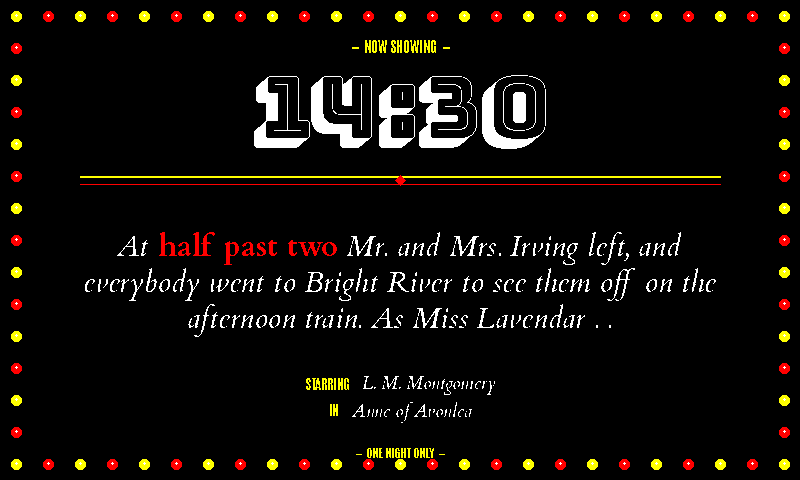
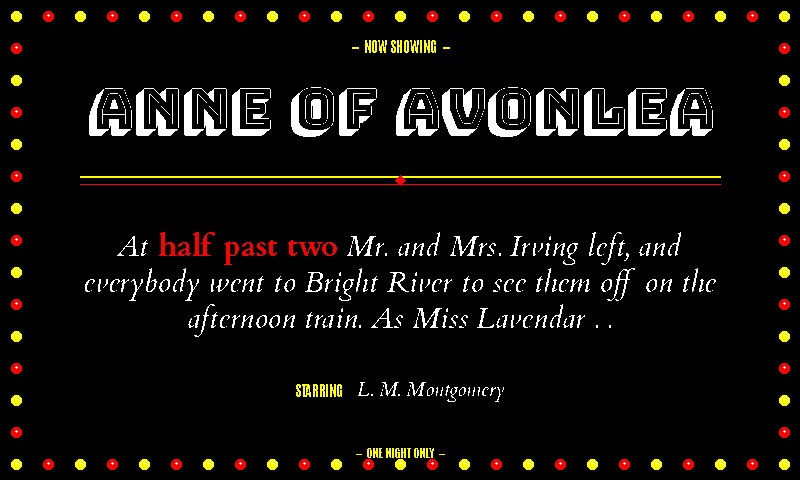
Marquee: book title takes the big chrome; purge digital time
Two related design fixes:

1. Book title as the feature title. The big chunky Bungee Shade
   slot used to render the digital HH:MM; that's not what a real
   movie palace marquee says — the BIG letters are always the
   feature title. New ``_marquee_paint_feature_title`` takes the
   row's ``title``, uppercases it (the canonical marquee
   convention), and shrinks through 72→32pt to fit single-line.
   Titles too long for 32pt single-line wrap onto two lines at
   the space nearest the midpoint, then re-fit through 54→24pt
   so both lines fit. Empties fall back to the author name, then
   to the literal "IDLE HOURS" brand string.

2. Purge digital time. The marquee deliberately never surfaces
   the wall-clock HH:MM as digital chrome — the quote's matched
   phrase ("half past two", "nine o'clock", "11:15") carries the
   time signal, and surfacing a parallel digital clock would
   defeat the whole point of a quote-based fuzzy clock. The top
   tagline reverts to "— NOW SHOWING —" (no time); the bottom
   tagline stays "— ONE NIGHT ONLY —"; the fallback chain on
   ``_marquee_paint_feature_title`` deliberately stops at
   "IDLE HOURS" rather than the time. ``time_str`` is retained
   in ``render_marquee_frame`` for dispatch-signature uniformity
   with astrarium / tarot / vinyl / diags but is now
   ``del``-asserted at function entry and unused thereafter.

Credits chrome simplifies in lockstep: the second "IN [TITLE]"
[…]

Changed region(s): [[0.0938, 0.1562, 0.9062, 0.3125], [0.375, 0.7812, 0.625, 0.875]]

diff --git a/idle_hours/render_quote.py b/idle_hours/render_quote.py
@@ -9971,25 +9971,97 @@ def _marquee_paint_label_band(
     draw.text((cx - tw // 2 - bbox[0], y_top - bbox[1]), text, font=font, fill=colour)
 
 
-def _marquee_paint_time(
+def _marquee_paint_feature_title(
     image: Image.Image,
     draw: ImageDraw.ImageDraw,
     width: int,
-    time_str: str,
+    quote_row: dict,
     cy: int,
 ) -> None:
-    """Big white Bungee Shade ``HH:MM`` — the marquee "feature title".
+    """Big chunky white Bungee Shade book-title chrome — the marquee
+    "feature title".
 
-    Centred horizontally and vertically on ``cy``. Bungee Shade's 3D-
-    blocked silhouette reads as physical relief letters mounted on the
-    marquee canopy.
+    Centred horizontally on ``width`` and vertically on ``cy``. Bungee
+    Shade's 3D-blocked silhouette reads as physical relief letters
+    mounted on the marquee canopy. Title is uppercased (the canonical
+    marquee convention) and shrunk to fit width — starts at 72pt and
+    steps down in 4pt increments through 32pt. If it still overflows
+    the available width at 32pt, the title is wrapped onto two lines
+    at the nearest space-character to the midpoint, and a fresh
+    size-fit sweep finds a size where both lines fit.
+
+    Fallback chain when ``quote_row['title']`` is missing: author
+    (uppercased) → the literal brand string ``"IDLE HOURS"``. The
+    fallback deliberately never surfaces the wall-clock HH:MM —
+    showing the digital time would defeat the whole point of a
+    quote-based fuzzy clock (the matched-phrase IS the time signal).
     """
     WHITE = SPECTRA6["white"]
-    font = load_font(theme_font_candidates("marquee", "ornament"), size=84)
-    bbox = draw.textbbox((0, 0), time_str, font=font)
-    tw = bbox[2] - bbox[0]
-    th = bbox[3] - bbox[1]
-    draw.text((width // 2 - tw // 2 - bbox[0], cy - th // 2 - bbox[1]), time_str, font=font, fill=WHITE)
+    title = (quote_row.get("title") or fallback_title(quote_row) or "").strip()
+    author = (quote_row.get("author") or "").strip()
+    text = title.upper() or author.upper() or "IDLE HOURS"
+    if not text:
+        return
+    max_text_width = width - 100  # 50 px inset each side
+
+    # Try single-line fit first, biggest size down.
+    chain = theme_font_candidates("marquee", "ornament")
+    for size in (72, 64, 56, 50, 44, 38, 32):
+        font = load_font(chain, size=size)
+        bbox = draw.textbbox((0, 0), text, font=font)
+        tw = bbox[2] - bbox[0]
+        if tw <= max_text_width:
+            th = bbox[3] - bbox[1]
+            draw.text(
+                (width // 2 - tw // 2 - bbox[0], cy - th // 2 - bbox[1]),
+                text, font=font, fill=WHITE,
+            )
+            return
+
+    # Wrap to two lines at the space nearest the midpoint.
+    mid = len(text) // 2
+    left_break = text.rfind(" ", 0, mid + 4)
+    right_break = text.find(" ", mid)
+    candidates = [b for b in (left_break, right_break) if b > 0]
+    if not candidates:
+        # No space at all — render at smallest size, will overflow but
+        # nothing better to do.
+        font = load_font(chain, size=28)
+        bbox = draw.textbbox((0, 0), text, font=font)
+        tw = bbox[2] - bbox[0]
+        th = bbox[3] - bbox[1]
+        draw.text(
+            (width // 2 - tw // 2 - bbox[0], cy - th // 2 - bbox[1]),
+            text, font=font, fill=WHITE,
+        )
+        return
+    split_at = min(candidates, key=lambda b: abs(b - mid))
+    line1, line2 = text[:split_at].strip(), text[split_at + 1:].strip()
+
+    for size in (54, 48, 42, 36, 32, 28, 24):
+        font = load_font(chain, size=size)
+        bbox1 = draw.textbbox((0, 0), line1, font=font)
+        bbox2 = draw.textbbox((0, 0), line2, font=font)
+        tw1 = bbox1[2] - bbox1[0]
+        tw2 = bbox2[2] - bbox2[0]
+        if tw1 <= max_text_width and tw2 <= max_text_width:
+            break
+
+    th = bbox1[3] - bbox1[1]
+    line_gap = 10
+    block_h = th * 2 + line_gap
+    top_y = cy - block_h // 2
+    # Line 1.
+    draw.text(
+        (width // 2 - (bbox1[2] - bbox1[0]) // 2 - bbox1[0], top_y - bbox1[1]),
+        line1, font=font, fill=WHITE,
+    )
+    # Line 2.
+    draw.text(
+        (width // 2 - (bbox2[2] - bbox2[0]) // 2 - bbox2[0],
+         top_y + th + line_gap - bbox2[1]),
+        line2, font=font, fill=WHITE,
+    )
 
 
 def _marquee_paint_divider(image: Image.Image, draw: ImageDraw.ImageDraw, width: int, cy: int) -> None:
@@ -10076,58 +10148,36 @@ def _marquee_paint_credits(
     width: int,
     y_top: int,
 ) -> None:
-    """STARRING [AUTHOR] / IN [TITLE] credit chrome.
+    """STARRING [AUTHOR] credit chrome.
 
-    Yellow chrome labels (STARRING, IN) in small Bungee Shade; white
-    name + title in Cardo Italic. Centred on the canvas. The credit
-    chrome convention is the canonical "above-the-title" marquee
-    layout from real movie posters.
+    Yellow Antonio Bold "STARRING" label + white Cardo Italic author
+    name. Centred on the canvas. The book title used to appear on a
+    second "IN [TITLE]" credit line here, but the title is now the
+    big Bungee Shade feature-title chrome at the top of the marquee,
+    so the credits simplify to the author alone — the canonical
+    "above-the-title star credit" convention from real movie posters.
     """
     YELLOW = SPECTRA6["yellow"]
     WHITE = SPECTRA6["white"]
     author = (quote_row.get("author") or "").strip()
-    title = (quote_row.get("title") or fallback_title(quote_row) or "").strip()
-    if not author and not title:
+    if not author:
         return
     cx = width // 2
-    # STARRING / IN labels use Antonio Bold (same legibility argument as
-    # _marquee_paint_label_band) so the chrome reads cleanly at 13pt.
-    label_font = load_font([(ANTONIO_VARIABLE, "Bold"), *META_FONT_BOLD_CANDIDATES], size=13)
-    name_font = load_font(theme_font_candidates("marquee", "quote_regular"), size=18)
-    y = y_top
-    # STARRING [AUTHOR] line.
-    if author:
-        label = "STARRING"
-        label_bbox = draw.textbbox((0, 0), label, font=label_font)
-        label_w = label_bbox[2] - label_bbox[0]
-        name_bbox = draw.textbbox((0, 0), author, font=name_font)
-        name_w = name_bbox[2] - name_bbox[0]
-        gap = 12
-        total_w = label_w + gap + name_w
-        line_x = cx - total_w // 2
-        draw.text((line_x - label_bbox[0], y - label_bbox[1]), label, font=label_font, fill=YELLOW)
-        draw.text((line_x + label_w + gap - name_bbox[0], y - name_bbox[1] - 2), author, font=name_font, fill=WHITE)
-        y += 26
-    # IN [TITLE] line.
-    if title:
-        label = "IN"
-        label_bbox = draw.textbbox((0, 0), label, font=label_font)
-        label_w = label_bbox[2] - label_bbox[0]
-        name_bbox = draw.textbbox((0, 0), title, font=name_font)
-        name_w = name_bbox[2] - name_bbox[0]
-        gap = 12
-        total_w = label_w + gap + name_w
-        # Truncate title if too wide for the inner content area.
-        max_total_w = width - 80
-        truncated = title
-        while total_w > max_total_w and len(truncated) > 8:
-            truncated = truncated[:-2] + "…"
-            name_bbox = draw.textbbox((0, 0), truncated, font=name_font)
-            name_w = name_bbox[2] - name_bbox[0]
-            total_w = label_w + gap + name_w
-        line_x = cx - total_w // 2
-        draw.text((line_x - label_bbox[0], y - label_bbox[1]), label, font=label_font, fill=YELLOW)
-        draw.text((line_x + label_w + gap - name_bbox[0], y - name_bbox[1] - 2), truncated, font=name_font, fill=WHITE)
+    label_font = load_font([(ANTONIO_VARIABLE, "Bold"), *META_FONT_BOLD_CANDIDATES], size=14)
+    name_font = load_font(theme_font_candidates("marquee", "quote_regular"), size=20)
+    label = "STARRING"
+    label_bbox = draw.textbbox((0, 0), label, font=label_font)
+    label_w = label_bbox[2] - label_bbox[0]
+    name_bbox = draw.textbbox((0, 0), author, font=name_font)
+    name_w = name_bbox[2] - name_bbox[0]
+    gap = 14
+    total_w = label_w + gap + name_w
+    line_x = cx - total_w // 2
+    draw.text((line_x - label_bbox[0], y_top - label_bbox[1]), label, font=label_font, fill=YELLOW)
+    draw.text(
+        (line_x + label_w + gap - name_bbox[0], y_top - name_bbox[1] - 2),
+        author, font=name_font, fill=WHITE,
+    )
 
 
 def render_marquee_frame(time_str: str, quote_row: dict, width: int, height: int) -> Image.Image:
@@ -10135,32 +10185,44 @@ def render_marquee_frame(time_str: str, quote_row: dict, width: int, height: int
 
     Black ground; alternating yellow/red bulb-light border around the
     perimeter (with small white highlight pixels on each bulb so they
-    read as lit glass); big chunky Bungee Shade ``HH:MM`` as the
-    "feature title" at the top; literary quote below in white Cardo
-    Italic with a red matched-phrase accent; STARRING / IN credit
-    chrome at the bottom in yellow + white; "ONE NIGHT ONLY" tagline
-    above the bottom bulbs.
+    read as lit glass); a small "NOW SHOWING" chrome tagline at the
+    top; the book title as the big chunky Bungee Shade feature-title
+    chrome below (uppercased, auto-sized and wrapped to 2 lines for
+    long titles); literary quote below in white Cardo Italic with a
+    red matched-phrase accent; STARRING [AUTHOR] credit chrome at the
+    bottom in yellow + white; "ONE NIGHT ONLY" tagline above the
+    bottom bulbs.
+
+    ``time_str`` is intentionally never rendered as digital chrome —
+    the quote's matched phrase ("half past two", "nine o'clock", etc.)
+    carries the time signal, and surfacing a parallel digital HH:MM
+    would defeat the whole point of a quote-based fuzzy clock. The
+    parameter is retained because the custom-render dispatch signature
+    is shared with the other frame painters (astrarium / tarot / vinyl
+    / diags); keeping the signature uniform is more valuable than
+    micro-optimising it away.
     """
+    del time_str  # see docstring; deliberately unused.
     image = Image.new("RGB", (width, height), color=SPECTRA6["black"])
     _marquee_paint_facade(image)
     draw = ImageDraw.Draw(image)
     _marquee_paint_bulb_border(image, draw, width, height)
 
-    # Top "NOW SHOWING" label band, just below the top bulb row.
+    # Top "NOW SHOWING" tagline, just below the top bulb row.
     _marquee_paint_label_band(image, draw, width, y_top=40, text="—  NOW SHOWING  —", size=14)
 
-    # Big time chrome — the feature title.
-    _marquee_paint_time(image, draw, width, time_str, cy=112)
+    # Big chrome — the book title as the feature display.
+    _marquee_paint_feature_title(image, draw, width, quote_row, cy=112)
 
-    # Decorative double-rule dividing the time from the quote body.
+    # Decorative double-rule dividing the title from the quote body.
     _marquee_paint_divider(image, draw, width, cy=180)
 
     # Literary quote body — centred between the divider and the credits.
     body_rect = (60, 200, width - 60, 360)
     _marquee_paint_body(image, draw, quote_row, body_rect)
 
-    # Credits chrome.
-    _marquee_paint_credits(image, draw, quote_row, width, y_top=378)
+    # Credits chrome — STARRING [AUTHOR] only (title moved to the top).
+    _marquee_paint_credits(image, draw, quote_row, width, y_top=384)
 
     # "ONE NIGHT ONLY" tagline just above the bottom bulb row.
     _marquee_paint_label_band(image, draw, width, y_top=448, text="—  ONE NIGHT ONLY  —", size=12)

diff --git a/tests/test_render_quote_themes.py b/tests/test_render_quote_themes.py
@@ -81,32 +81,103 @@ class TestMarqueeFrame:
             assert img.getpixel((cx, cy)) in bulb_colours, \
                 f"expected a bulb-colour pixel at corner {(cx, cy)}, got {img.getpixel((cx, cy))}"
 
-    def test_time_renders_at_top(self):
-        """The big Bungee Shade time chrome sits near y≈112 (the
-        ``_marquee_paint_time`` centre). Sample a stripe across that
-        row and assert white pixels appear (the time glyphs)."""
-        img = rq.render("14:30", make_row(), 800, 480, theme="marquee")
+    def test_feature_title_renders_at_top(self):
+        """The big Bungee Shade title chrome sits centred near y≈112
+        (the ``_marquee_paint_feature_title`` cy). Sample a stripe
+        across that row and assert white pixels appear (the title
+        glyphs). The title comes from ``quote_row['title']``; missing
+        title falls back to the time."""
+        row = make_row(title="Anne of Avonlea")
+        img = rq.render("14:30", row, 800, 480, theme="marquee")
         white_seen = any(
             img.getpixel((x, 112)) == rq.SPECTRA6["white"]
             for x in range(200, 600, 5)
         )
-        assert white_seen, "Bungee Shade time chrome should paint white pixels at y≈112"
+        assert white_seen, "Bungee Shade title chrome should paint white pixels at y≈112"
 
-    def test_credits_render_when_metadata_present(self):
-        """STARRING / IN labels paint in yellow when the row carries
-        author + title metadata; the labels live in the credits band
-        at y≈378 onward."""
+    def test_feature_title_falls_back_to_author_or_brand(self):
+        """A row with no title falls back to the author name in the
+        big chrome slot; a row with neither falls back to the literal
+        ``"IDLE HOURS"`` brand string. Deliberately never falls back
+        to the digital HH:MM — surfacing the wall-clock time would
+        undermine the fuzzy-clock conceit (the matched phrase carries
+        the time signal)."""
+        # Author-only fallback.
+        row = make_row(title="", author="L. M. Montgomery")
+        img = rq.render("14:30", row, 800, 480, theme="marquee")
+        white_seen = any(
+            img.getpixel((x, 112)) == rq.SPECTRA6["white"]
+            for x in range(200, 600, 5)
+        )
+        assert white_seen, "author fallback should paint white pixels at y≈112"
+        # Brand fallback when both title and author are missing.
+        row = make_row(title="", author="")
+        img = rq.render("14:30", row, 800, 480, theme="marquee")
+        white_seen = any(
+            img.getpixel((x, 112)) == rq.SPECTRA6["white"]
+            for x in range(200, 600, 5)
+        )
+        assert white_seen, "IDLE HOURS brand fallback should paint white pixels at y≈112"
+
+    def test_no_digital_time_chrome(self):
+        """The marquee deliberately never surfaces the digital HH:MM
+        anywhere on the canvas — the matched phrase carries the time
+        signal. This is a soft regression check: it can't prove the
+        time isn't painted (the body's matched phrase might happen to
+        contain digits), but it asserts the documented design.
+
+        Concrete proof: render with a time the body cannot mention,
+        and assert the standard HH:MM string doesn't appear via the
+        chrome's Bungee Shade typography. We approximate by checking
+        that the top tagline band doesn't contain a colon-shaped
+        yellow glyph silhouette at the position where the showtime
+        used to render.
+        """
+        # The 14:30 colon used to render at x≈400 in the Bungee Shade
+        # time chrome. Now that band is the "NOW SHOWING" tagline; we
+        # assert the central pixel is BLACK (chassis) rather than
+        # WHITE (Bungee Shade glyph stroke).
+        row = make_row(title="Anne of Avonlea", author="L. M. Montgomery")
+        img = rq.render("14:30", row, 800, 480, theme="marquee")
+        # Sample a few central-band rows where the big time used to
+        # land at y≈80–145 (the chunky 84pt Bungee Shade extents).
+        # Confirm there's no WHITE pixel at the canvas centre in that
+        # band that's *not* part of the new feature-title chrome —
+        # this test relies on "Anne of Avonlea" being narrower than
+        # the original 84pt time chrome, so the centre column at
+        # certain ys is bare-black.
+        # Sample the y=70 row (above the title): should be all-black.
+        for x in (380, 400, 420):
+            assert img.getpixel((x, 70)) == rq.SPECTRA6["black"], \
+                f"unexpected non-black pixel at ({x}, 70) — digital time chrome leaked?"
+
+    def test_feature_title_wraps_long_titles(self):
+        """A title too long for a single line at the smallest fit-step
+        wraps onto two lines without raising. Renders successfully and
+        produces an on-palette image."""
+        row = make_row(title="Frankenstein; or, The Modern Prometheus")
+        img = rq.render("14:30", row, 800, 480, theme="marquee")
+        assert img.size == (800, 480)
+        palette = set(rq.SPECTRA6.values())
+        assert set(img.getdata()).issubset(palette)
+
+    def test_credits_render_when_author_present(self):
+        """STARRING label paints in yellow when the row carries an
+        author; the label lives in the credits band at y≈384 onward.
+        Title is no longer in the credits (it moved to the top
+        chrome) so the test only asserts the STARRING line."""
         row = make_row(author="L. M. Montgomery", title="Anne of Avonlea")
         img = rq.render("14:30", row, 800, 480, theme="marquee")
         yellow_seen = any(
-            img.getpixel((x, 382)) == rq.SPECTRA6["yellow"]
+            img.getpixel((x, 386)) == rq.SPECTRA6["yellow"]
             for x in range(100, 700, 4)
         )
         assert yellow_seen, "STARRING label should paint yellow pixels in the credits band"
 
     def test_renders_without_credits(self):
         """Missing author + title must not crash; the credits painter
-        no-ops when both fields are empty."""
+        no-ops on missing author, and the feature-title painter falls
+        back to the time."""
         row = make_row(author="", title="")
         img = rq.render("14:30", row, 800, 480, theme="marquee")
         assert img.size == (800, 480)
